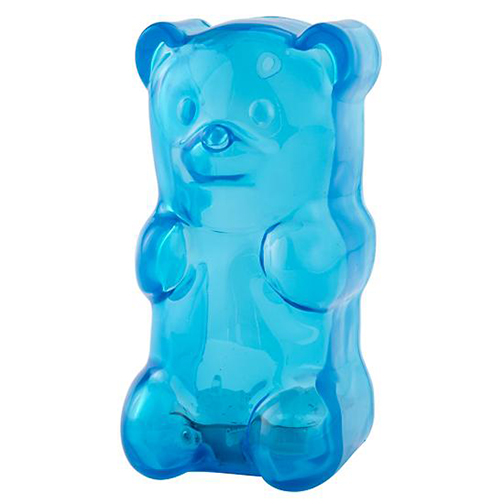
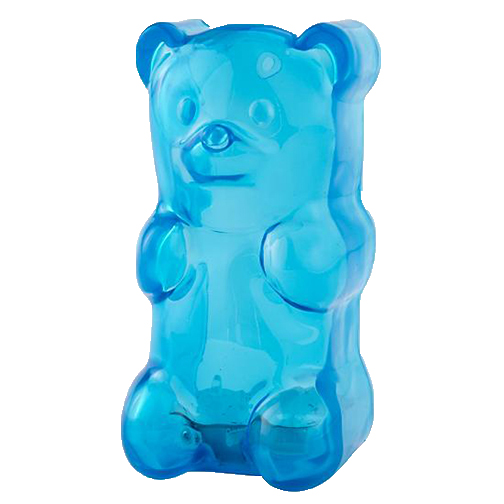
Much Changed

Changed region(s): [[0.3869, 0.0298, 0.625, 0.0893], [0.7143, 0.6845, 0.744, 0.7143], [0.7143, 0.3869, 0.744, 0.4167]]

diff --git a/otherProjects/finalProject/css/style.css b/otherProjects/finalProject/css/style.css
@@ -1,19 +1,24 @@
 @import url(https://fonts.googleapis.com/css?family=Comfortaa:400,300,700);
+@import url(https://fonts.googleapis.com/css?family=Open+Sans:400,600);
 
 .catImage{
 
   width:100%;
-  border: 2pxs solid #EDDE45;
+  border: 2px solid ##EA3556;
 }
 
 .catName{
-  background:#EDDE45;
+  background:#EA3556;
   font-size:18px;
   text-align: center;
 }
-
+.nav-pills{
+  font-family: "comfortaa";
+  color: #EDDE45;
+}
 .nav-pills>li.active>a, .nav-pills>li.active>a:focus, .nav-pills>li.active>a:hover{
   background-color: #EA3556;
+  font-family: "comfortaa";
 }
 
 .pageContent{
@@ -27,8 +32,29 @@ small{
 h1{
   font-size: 55px;
   text-align: center;
+  font-weight: bold;
   font-family: "comfortaa";
-  margin-bottom: 45px;
+  margin-bottom: 10px;
+  color: #ED146F
+}
+
+
+h2{
+
+  font-size: 22px;
+  text-align: center;
+  font-family: "open sans";
+  font-weight: 600;
+}
+
+p{
+  font-size: 14px;
+  font-family: "open sans";
+  font-weight: 400;
+  text-align: center;
+  margin-left: 45px;
+  margin-right: 45px;
+  border: 2px solid ##EA3556;
 }
 
 body{
@@ -36,7 +62,8 @@ body{
 }
 
   .carousel {
-    background: #FFF;
+    background: #EDE5E2;
+
   }
 
   .carousel .item img {
@@ -45,13 +72,4 @@ body{
 
   .bs-example {
     margin: 20px;
-  }
-
-  h1{
-      text-align: center;
-      font-weight: bold;
-    }
-
-  small{
-    font-weight: bold;
   }

diff --git a/otherProjects/finalProject/partials/home.html b/otherProjects/finalProject/partials/home.html
@@ -20,19 +20,19 @@
 
     <div class="carousel-inner">
       <div class="item active">
-        <img src="images/gummybearred.jpg" alt="Raspberry-Lemon Gummy Bear">
+        <img src="images/gummybearred.png" alt="Raspberry-Lemon Gummy Bear">
       </div>
       <div class="item">
-        <img src="images/gummybearyellow.jpg" alt="Banana-Strawberry Gummy Bear">
+        <img src="images/gummybearyellow.png" alt="Banana-Strawberry Gummy Bear">
       </div>
       <div class="item">
-        <img src="images/gummybeargreen.jpg" alt="Green-Jello Gummy Bear">
+        <img src="images/gummybeargreen.png" alt="Green-Jello Gummy Bear">
       </div>
       <div class="item">
-        <img src="images/gummybearpink.jpg" alt="Watermelon Gummy Bear ">
+        <img src="images/gummybearpink.png" alt="Watermelon Gummy Bear ">
       </div>
       <div class="item">
-        <img src="images/gummybearblue.jpg" alt="Blueberry Gummy Bear ">
+        <img src="images/gummybearblue.png" alt="Blueberry Gummy Bear ">
       </div>
     </div>
 
